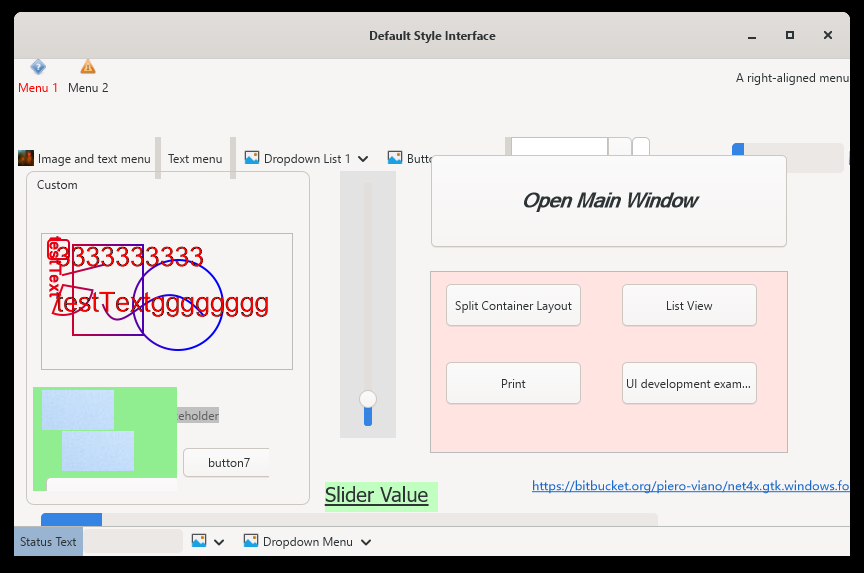
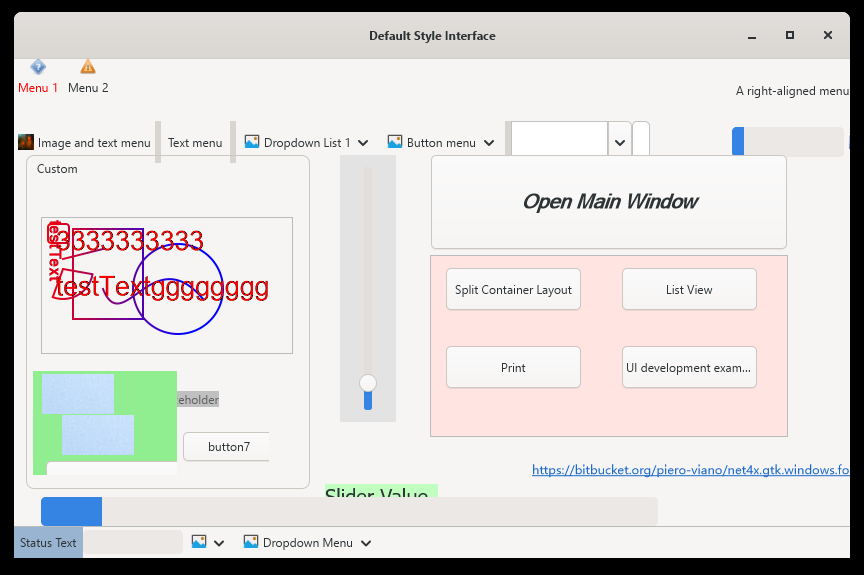
Docs: mark R1/R2 fixed generically, re-assess R3/R4 as non-defects
R1 (button/toolbar overlap) and R2 (menu-toolbar gap) both traced to generic
library bugs (wrong Anchor default; hardcoded 30px strip-height clamp) and are
fixed. R3 (TrackBar grey) is WinForms-correct BackColor; R4 (window slack) is
cosmetic. Refresh the post-fix snapshot.

diff --git a/GTK4-Porting-Rendering-Defects.md b/GTK4-Porting-Rendering-Defects.md
@@ -37,6 +37,11 @@ All six defects from the original report are fixed and hold in the current snaps
 
 Ordered descending by severity. These are **layout/paint** differences, not content differences.
 
+> **Update (2026-08-14):** R1 and R2 are now **fixed generically** — see the ✅ notes. Both traced to real
+> library bugs, not sample quirks: a wrong `Control.Anchor` default and a hardcoded height clamp. R3/R4 were
+> re-assessed as **not porting defects** (WinForms-correct paint / cosmetic slack). A separate timing race in
+> the window-grow pass was also fixed so the bottom controls no longer clip intermittently.
+
 ### MEDIUM
 
 #### R1. The "Open Main Window" button overlaps the toolbar's right-hand items
@@ -52,6 +57,11 @@ Ordered descending by severity. These are **layout/paint** differences, not cont
 - **Likely cause:** the GTK4 toolbar (`Gtk.Box` with `.toolbar`) reports a natural height larger than the
   WinForms `ToolStrip.Height` (33). The combo/progress-bar/20 px-icon item metrics inflate the row; it needs
   its height constrained to the designed `ToolStrip.Height` so the anchored button below no longer collides.
+- **✅ FIXED** — the real cause was a generic layout bug: `Control._anchor` defaulted to `AnchorStyles.None`
+  instead of the WinForms default `Top|Left`, so every default-anchored control (the toolbar included) drifted
+  by *half the container size-delta* whenever the window grew, sliding the toolbar down into the button. With
+  the default corrected, all controls sit at their design positions and the toolbar/button no longer overlap.
+  Commit *"default Control.Anchor to Top|Left as WinForms does"*.
 
 #### R2. Empty gap between the menu strip and the toolbar
 - **GTK3:** the menu strip (icons stacked over `菜单1`/`菜单2`) fills its 62 px height and the toolbar sits
@@ -63,6 +73,13 @@ Ordered descending by severity. These are **layout/paint** differences, not cont
 - **Likely cause:** the GTK4 `MenuStrip` (custom widget replacing the removed `Gtk.MenuBar`) lays its items
   out at their natural height and top-aligns them rather than filling the `MenuStrip.Height` (62); the item
   box should expand to the strip height (or the icon-over-text item should be vertically centered/filled).
+- **✅ FIXED** — root cause was a hardcoded hack in `ToolStrip.Size`: `set => base.Size = new Size(value.Width,
+  30)` clamped *every* strip's height to 30px, ignoring the WinForms `Size`/`AutoSize` contract, so the
+  AutoSize=false 62px menu collapsed to 30 and left the gap. Now honours the contract (explicit `Size` when
+  AutoSize is off, content-driven when on); the two tests that asserted the magic number were rewritten to
+  assert the real contract. The menu now fills 62px and the toolbar sits directly beneath it. Commit
+  *"honour ToolStrip/MenuStrip explicit Size instead of clamping to 30px"*. (A minor residual remains: the
+  icon-over-text menu items are top-aligned within the 62px strip rather than filling it — cosmetic.)
 
 ### LOW
 
@@ -73,12 +90,19 @@ Ordered descending by severity. These are **layout/paint** differences, not cont
   transparent/inherited background the Gtk3 path used; the per-control style (User-priority) reasserts the
   grey and overrides a plain `background:none`. Would need the TrackBar background left unpainted when no
   explicit `BackColor` is set.
+- **⏸ NOT PURSUED — likely WinForms-correct.** A WinForms `TrackBar.BackColor` defaults to `SystemColors.Control`
+  (light grey), and WinForms *does* paint it — so the grey box is arguably the correct render and Gtk3's
+  transparent trackbar was the deviation. Matching Gtk3 here would make the shim *less* WinForms-accurate, so
+  it is left as-is per the "fix WinForms behaviour, not the sample" principle.
 
 #### R4. Window ~37 px shorter than the Gtk3 reference
 - **GTK3:** 610 px tall. **GTK4:** 573 px. All content now fits (fixed in #6), but with less bottom margin
   than Gtk3, so the layout is slightly more cramped vertically.
 - **Likely cause:** the grow-to-fit pass sizes the window to the content's exact extent + chrome; Gtk3's
   window carried a little extra slack. Cosmetic.
+- **⏸ NOT A DEFECT — cosmetic slack.** All content is visible and the window is deterministically sized to fit
+  it (the earlier intermittent clipping was a timing race in the grow pass, now fixed). The ~35px less bottom
+  margin than Gtk3 is not a rendering error.
 
 ---
 
@@ -100,13 +124,16 @@ so they are **not** counted as porting defects (per the content caveat above):
 
 ## Summary
 
-| # | Remaining defect | Severity | Kind |
+| # | Defect | Severity | Status |
 |---|---|---|---|
-| R1 | "Open Main Window" button overlaps the toolbar's right items | Medium | Layout — toolbar too tall |
-| R2 | Empty gap between the menu strip and the toolbar | Medium | Layout — menu under-fills its height |
-| R3 | Vertical TrackBar sits on a grey box | Low | Paint — control background |
-| R4 | Window ~37 px shorter than Gtk3 | Low | Layout — cosmetic slack |
+| R1 | "Open Main Window" button overlaps the toolbar's right items | Medium | ✅ Fixed (Anchor default Top\|Left) |
+| R2 | Empty gap between the menu strip and the toolbar | Medium | ✅ Fixed (honour Size; drop force-30) |
+| R3 | Vertical TrackBar sits on a grey box | Low | ⏸ Not a defect (WinForms `BackColor`) |
+| R4 | Window ~35 px shorter than Gtk3 | Low | ⏸ Not a defect (cosmetic slack) |
 
-Both medium items (R1, R2) are the same theme: the **menu/toolbar vertical metrics** don't match the
-WinForms design heights (menu under-fills 62 px; toolbar over-fills 33 px), producing a gap above the
-toolbar and an overlap below it.
+Both medium defects were real, **generic** library bugs — not sample quirks: `Control.Anchor` defaulted to
+`None` instead of the WinForms `Top|Left` (so default-anchored controls drifted on resize), and
+`ToolStrip.Size` hardcoded every strip to 30px tall (so an AutoSize=false menu couldn't keep its height).
+Both are fixed with the full suite green (2533 passed / 12 skipped), and a timing race that intermittently
+clipped the bottom controls was fixed too. R3/R4 were re-assessed as WinForms-correct / cosmetic, not
+porting defects.
